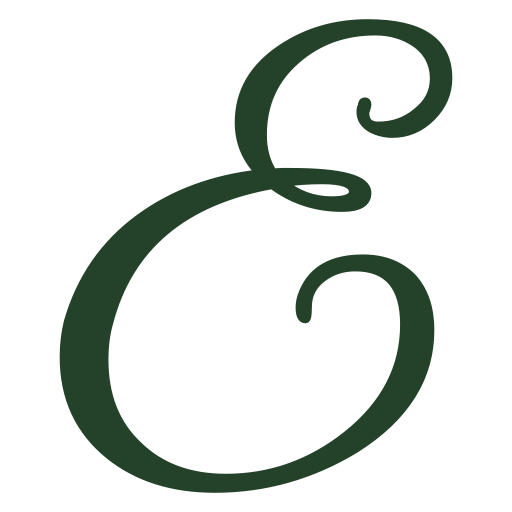
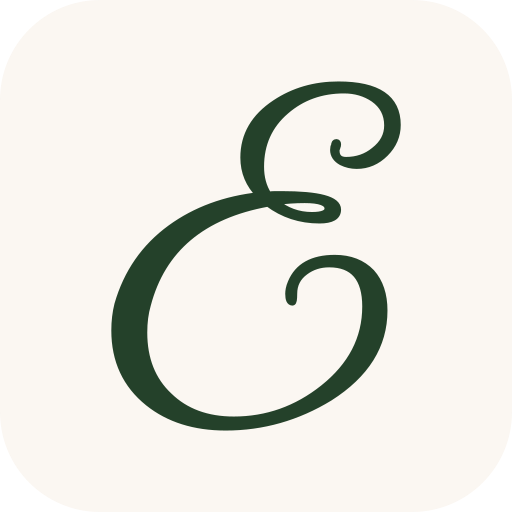
feat(pwa): implementa PwaService para fornecer app exclusivamente no painel admin, ajusta centralizacao e limpa imagens redundantes

Changed region(s): [[0.0938, 0.0312, 0.9062, 0.9688]]

diff --git a/web/src/app/services/pwa.service.ts b/web/src/app/services/pwa.service.ts
@@ -1,0 +1,141 @@
+import { Injectable, inject, PLATFORM_ID, OnDestroy } from '@angular/core';
+import { isPlatformBrowser, DOCUMENT } from '@angular/common';
+import { Router, NavigationEnd } from '@angular/router';
+import { BehaviorSubject, filter, Subscription } from 'rxjs';
+
+export interface BeforeInstallPromptEvent extends Event {
+  readonly platforms: string[];
+  readonly userChoice: Promise<{
+    outcome: 'accepted' | 'dismissed';
+    platform: string;
+  }>;
+  prompt(): Promise<void>;
+}
+
+@Injectable({
+  providedIn: 'root'
+})
+export class PwaService implements OnDestroy {
+  private readonly document = inject(DOCUMENT);
+  private readonly router = inject(Router);
+  private readonly platformId = inject(PLATFORM_ID);
+
+  private deferredPrompt: BeforeInstallPromptEvent | null = null;
+  private readonly canInstallSubject = new BehaviorSubject<boolean>(false);
+  readonly canInstall$ = this.canInstallSubject.asObservable();
+
+  private readonly isInstalledSubject = new BehaviorSubject<boolean>(false);
+  readonly isInstalled$ = this.isInstalledSubject.asObservable();
+
+  private sub: Subscription | null = null;
+  private beforeInstallHandler: ((e: Event) => void) | null = null;
+  private appInstalledHandler: (() => void) | null = null;
+
+  constructor() {
+    if (!isPlatformBrowser(this.platformId)) return;
+
+    this.checkIfAlreadyInstalled();
+    this.setupInstallPromptListener();
+    this.setupRouteListener();
+  }
+
+  private checkIfAlreadyInstalled(): void {
+    if (typeof window === 'undefined') return;
+    const isStandalone = (typeof window.matchMedia === 'function' && window.matchMedia('(display-mode: standalone)').matches) ||
+      (window.navigator as unknown as { standalone?: boolean })?.standalone === true;
+    this.isInstalledSubject.next(Boolean(isStandalone));
+  }
+
+  private setupInstallPromptListener(): void {
+    if (typeof window === 'undefined' || typeof window.addEventListener !== 'function') return;
+
+    this.beforeInstallHandler = (e: Event) => {
+      // Impede o prompt automático fora do escopo desejado
+      e.preventDefault();
+      this.deferredPrompt = e as BeforeInstallPromptEvent;
+
+      if (this.isAdminRoute(this.router.url)) {
+        this.canInstallSubject.next(true);
+      }
+    };
+
+    this.appInstalledHandler = () => {
+      this.deferredPrompt = null;
+      this.canInstallSubject.next(false);
+      this.isInstalledSubject.next(true);
+    };
+
+    window.addEventListener('beforeinstallprompt', this.beforeInstallHandler);
+    window.addEventListener('appinstalled', this.appInstalledHandler);
+  }
+
+  private setupRouteListener(): void {
+    // Avalia a rota inicial
+    this.syncManifestWithRoute(this.router.url);
+
+    this.sub = this.router.events
+      .pipe(filter((event): event is NavigationEnd => event instanceof NavigationEnd))
+      .subscribe((event) => {
+        this.syncManifestWithRoute(event.urlAfterRedirects || event.url);
+      });
+  }
+
+  private syncManifestWithRoute(url: string): void {
+    if (!isPlatformBrowser(this.platformId) || !this.document) return;
+
+    const isAdmin = this.isAdminRoute(url);
+    const existingManifest = this.document.getElementById('pwa-manifest') as HTMLLinkElement | null;
+
+    if (isAdmin) {
+      if (!existingManifest && this.document.head) {
+        const link = this.document.createElement('link');
+        link.id = 'pwa-manifest';
+        link.rel = 'manifest';
+        link.href = '/manifest.webmanifest';
+        this.document.head.appendChild(link);
+      }
+      if (this.deferredPrompt) {
+        this.canInstallSubject.next(true);
+      }
+    } else {
+      if (existingManifest) {
+        existingManifest.remove();
+      }
+      this.canInstallSubject.next(false);
+    }
+  }
+
+  private isAdminRoute(url: string): boolean {
+    if (!url) return false;
+    const cleanUrl = url.split('?')[0].split('#')[0];
+    return cleanUrl.startsWith('/admin') || cleanUrl.startsWith('/login-cms');
+  }
+
+  async promptInstall(): Promise<'accepted' | 'dismissed' | 'unavailable'> {
+    if (!this.deferredPrompt) {
+      return 'unavailable';
+    }
+
+    try {
+      await this.deferredPrompt.prompt();
+      const choice = await this.deferredPrompt.userChoice;
+      this.deferredPrompt = null;
+      this.canInstallSubject.next(false);
+      return choice.outcome;
+    } catch {
+      return 'unavailable';
+    }
+  }
+
+  ngOnDestroy(): void {
+    this.sub?.unsubscribe();
+    if (typeof window !== 'undefined' && typeof window.removeEventListener === 'function') {
+      if (this.beforeInstallHandler) {
+        window.removeEventListener('beforeinstallprompt', this.beforeInstallHandler);
+      }
+      if (this.appInstalledHandler) {
+        window.removeEventListener('appinstalled', this.appInstalledHandler);
+      }
+    }
+  }
+}

diff --git a/web/src/app/services/pwa.service.spec.ts b/web/src/app/services/pwa.service.spec.ts
@@ -1,0 +1,72 @@
+import { TestBed } from '@angular/core/testing';
+import { PwaService } from './pwa.service';
+import { Router, NavigationEnd } from '@angular/router';
+import { Subject } from 'rxjs';
+import { DOCUMENT } from '@angular/common';
+
+describe('PwaService', () => {
+  let service: PwaService;
+  let routerEvents$: Subject<any>;
+  let mockRouter: any;
+  let doc: Document;
+
+  beforeEach(() => {
+    routerEvents$ = new Subject<any>();
+    mockRouter = {
+      url: '/',
+      events: routerEvents$.asObservable()
+    };
+
+    TestBed.configureTestingModule({
+      providers: [
+        PwaService,
+        { provide: Router, useValue: mockRouter }
+      ]
+    });
+
+    doc = TestBed.inject(DOCUMENT);
+    // Cleanup any existing link
+    const existing = doc.getElementById('pwa-manifest');
+    if (existing) existing.remove();
+
+    service = TestBed.inject(PwaService);
+  });
+
+  afterEach(() => {
+    service.ngOnDestroy();
+    const existing = doc.getElementById('pwa-manifest');
+    if (existing) existing.remove();
+    TestBed.resetTestingModule();
+  });
+
+  it('não deve injetar manifest na rota raiz pública', () => {
+    const manifestLink = doc.getElementById('pwa-manifest');
+    expect(manifestLink).toBeNull();
+  });
+
+  it('deve injetar manifest ao navegar para /admin/catalog', () => {
+    routerEvents$.next(new NavigationEnd(1, '/admin/catalog', '/admin/catalog'));
+    const manifestLink = doc.getElementById('pwa-manifest') as HTMLLinkElement;
+    expect(manifestLink).not.toBeNull();
+    expect(manifestLink.getAttribute('href')).toBe('/manifest.webmanifest');
+  });
+
+  it('deve injetar manifest ao navegar para /login-cms', () => {
+    routerEvents$.next(new NavigationEnd(1, '/login-cms', '/login-cms'));
+    const manifestLink = doc.getElementById('pwa-manifest');
+    expect(manifestLink).not.toBeNull();
+  });
+
+  it('deve remover manifest ao sair do admin para a página pública', () => {
+    routerEvents$.next(new NavigationEnd(1, '/admin', '/admin'));
+    expect(doc.getElementById('pwa-manifest')).not.toBeNull();
+
+    routerEvents$.next(new NavigationEnd(2, '/', '/'));
+    expect(doc.getElementById('pwa-manifest')).toBeNull();
+  });
+
+  it('deve retornar "unavailable" se promptInstall for chamado sem deferredPrompt', async () => {
+    const result = await service.promptInstall();
+    expect(result).toBe('unavailable');
+  });
+});

diff --git a/web/src/index.html b/web/src/index.html
@@ -50,9 +50,8 @@
 
   <link rel="icon" type="image/x-icon" href="/favicon.ico">
   <link rel="icon" type="image/svg+xml" href="/favicon.svg">
-  <link rel="icon" type="image/png" sizes="32x32" href="/favicon-32x32.png">
-  <link rel="icon" type="image/png" sizes="16x16" href="/favicon-16x16.png">
   <link rel="apple-touch-icon" sizes="180x180" href="/apple-touch-icon.png">
+  <meta name="theme-color" content="#24412A">
 
   <link rel="preconnect" href="https://fonts.gstatic.com" crossorigin>
   <link rel="preconnect" href="https://eloa-mercados-e-panificacoes.onrender.com" crossorigin>

diff --git a/web/src/app/app.component.ts b/web/src/app/app.component.ts
@@ -1,6 +1,7 @@
-import { Component } from '@angular/core';
+import { Component, inject } from '@angular/core';
 import { CommonModule } from '@angular/common';
 import { RouterOutlet } from '@angular/router';
+import { PwaService } from './services/pwa.service';
 
 @Component({
   selector: 'app-root',
@@ -13,6 +14,7 @@ import { RouterOutlet } from '@angular/router';
   styleUrls: ['./app.component.css']
 })
 export class AppComponent {
+  private readonly pwaService = inject(PwaService);
   title = 'Eloa Web';
 }
 
